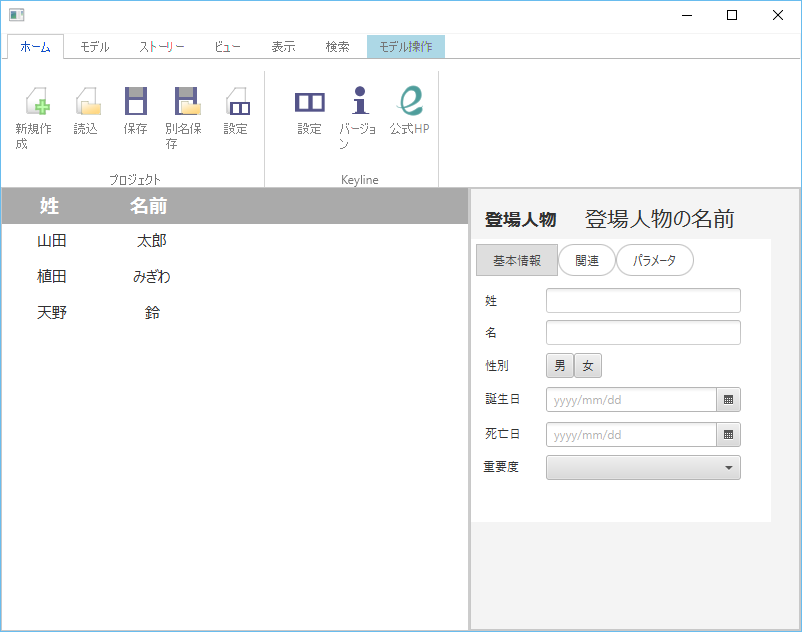
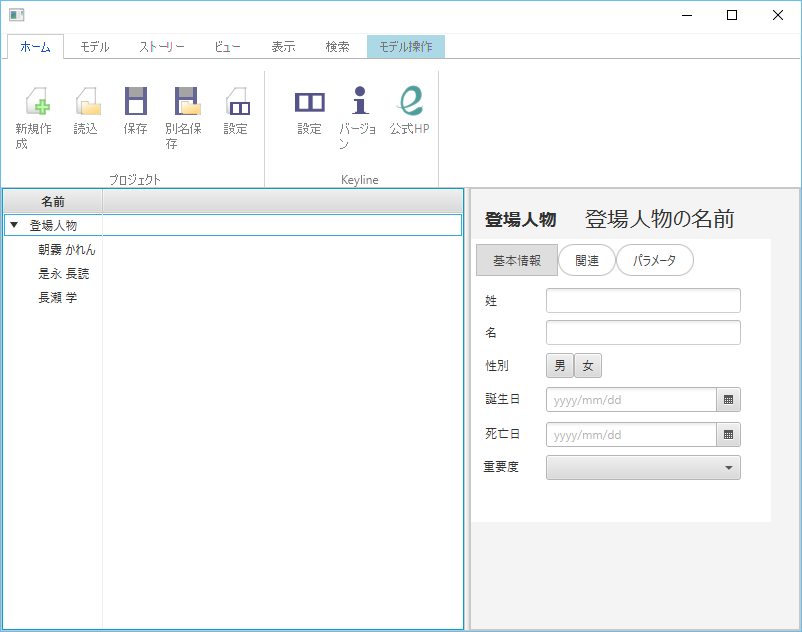
説明画像変更

diff --git a/src/keyline/blmodel/CharacterManager.java b/src/keyline/blmodel/CharacterManager.java
@@ -27,12 +27,12 @@ public class CharacterManager extends ModelManager<CharacterModel> {
 		c1.firstNameProperty().set("かれん");
 		this.addModel(c1);
 		CharacterModel c2 = new CharacterModel();
-		c2.lastNameProperty().set("朝霧");
-		c2.firstNameProperty().set("かれん");
+		c2.lastNameProperty().set("是永");
+		c2.firstNameProperty().set("長読");
 		this.addModel(c2);
 		CharacterModel c3 = new CharacterModel();
-		c3.lastNameProperty().set("朝霧");
-		c3.firstNameProperty().set("かれん");
+		c3.lastNameProperty().set("長瀬");
+		c3.firstNameProperty().set("学");
 		this.addModel(c3);
 	}
 
